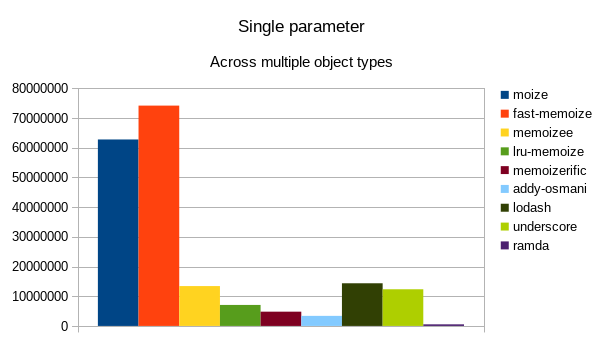
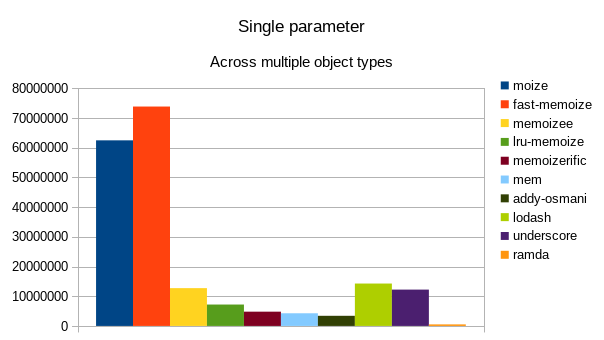
Add mem to benchmarks

Changed region(s): [[0.2086, 0.2941, 0.7748, 0.9706], [0.8046, 0.2353, 0.9834, 0.7647], [0.149, 0.4118, 0.1788, 0.9412]]

diff --git a/benchmark/index.js b/benchmark/index.js
@@ -8,15 +8,16 @@ const Benchmark = require('benchmark');
 const Table = require('cli-table2');
 const ora = require('ora');
 
-const underscore = require('underscore').memoize;
-const lodash = _.memoize;
-const ramda = require('ramda').memoize;
-const memoizee = require('memoizee');
-const fastMemoize = require('fast-memoize');
 const addyOsmani = require('./addy-osmani');
-const memoizerific = require('memoizerific');
+const fastMemoize = require('fast-memoize');
+const lodash = _.memoize;
 const lruMemoize = require('lru-memoize').default;
+const mem = require('mem');
+const memoizee = require('memoizee');
+const memoizerific = require('memoizerific');
 const moize = require('../lib').default;
+const ramda = require('ramda').memoize;
+const underscore = require('underscore').memoize;
 
 const deepEquals = require('lodash').isEqual;
 
@@ -135,15 +136,16 @@ const runSinglePrimitiveSuite = () => {
   const fibonacciSuite = new Benchmark.Suite('Single parameter (primitive)');
   const fibonacciNumber = 35;
 
-  const mUnderscore = underscore(fibonacciSinglePrimitive);
-  const mLodash = lodash(fibonacciSinglePrimitive);
-  const mRamda = ramda(fibonacciSinglePrimitive);
-  const mMemoizee = memoizee(fibonacciSinglePrimitive);
-  const mFastMemoize = fastMemoize(fibonacciSinglePrimitive);
   const mAddyOsmani = addyOsmani(fibonacciSinglePrimitive);
-  const mMemoizerific = memoizerific(Infinity)(fibonacciSinglePrimitive);
+  const mFastMemoize = fastMemoize(fibonacciSinglePrimitive);
+  const mLodash = lodash(fibonacciSinglePrimitive);
   const mLruMemoize = lruMemoize(Infinity)(fibonacciSinglePrimitive);
+  const mMem = mem(fibonacciSinglePrimitive);
+  const mMemoizee = memoizee(fibonacciSinglePrimitive);
+  const mMemoizerific = memoizerific(Infinity)(fibonacciSinglePrimitive);
   const mMoize = moize(fibonacciSinglePrimitive);
+  const mRamda = ramda(fibonacciSinglePrimitive);
+  const mUnderscore = underscore(fibonacciSinglePrimitive);
 
   return new Promise((resolve) => {
     fibonacciSuite
@@ -158,6 +160,9 @@ const runSinglePrimitiveSuite = () => {
       })
       .add('lru-memoize', () => {
         mLruMemoize(fibonacciNumber);
+      })
+      .add('mem', () => {
+        mMem(fibonacciNumber);
       })
       .add('memoizee', () => {
         mMemoizee(fibonacciNumber);
@@ -197,15 +202,16 @@ const runSingleArraySuite = () => {
   const fibonacciSuite = new Benchmark.Suite('Single parameter (Array)');
   const fibonacciNumber = [35];
 
-  const mUnderscore = underscore(fibonacciSingleArray);
-  const mLodash = lodash(fibonacciSingleArray);
-  const mRamda = ramda(fibonacciSingleArray);
-  const mMemoizee = memoizee(fibonacciSingleArray);
-  const mFastMemoize = fastMemoize(fibonacciSingleArray);
   const mAddyOsmani = addyOsmani(fibonacciSingleArray);
-  const mMemoizerific = memoizerific(Infinity)(fibonacciSingleArray);
+  const mFastMemoize = fastMemoize(fibonacciSingleArray);
+  const mLodash = lodash(fibonacciSingleArray);
   const mLruMemoize = lruMemoize(Infinity)(fibonacciSingleArray);
+  const mMem = mem(fibonacciSingleArray);
+  const mMemoizee = memoizee(fibonacciSingleArray);
+  const mMemoizerific = memoizerific(Infinity)(fibonacciSingleArray);
   const mMoize = moize(fibonacciSingleArray);
+  const mRamda = ramda(fibonacciSingleArray);
+  const mUnderscore = underscore(fibonacciSingleArray);
 
   return new Promise((resolve) => {
     fibonacciSuite
@@ -220,6 +226,9 @@ const runSingleArraySuite = () => {
       })
       .add('lru-memoize', () => {
         mLruMemoize(fibonacciNumber);
+      })
+      .add('mem', () => {
+        mMem(fibonacciNumber);
       })
       .add('memoizee', () => {
         mMemoizee(fibonacciNumber);
@@ -261,15 +270,16 @@ const runSingleObjectSuite = () => {
     number: 35
   };
 
-  const mUnderscore = underscore(fibonacciSingleObject);
-  const mLodash = lodash(fibonacciSingleObject);
-  const mRamda = ramda(fibonacciSingleObject);
-  const mMemoizee = memoizee(fibonacciSingleObject);
-  const mFastMemoize = fastMemoize(fibonacciSingleObject);
   const mAddyOsmani = addyOsmani(fibonacciSingleObject);
-  const mMemoizerific = memoizerific(Infinity)(fibonacciSingleObject);
+  const mFastMemoize = fastMemoize(fibonacciSingleObject);
+  const mLodash = lodash(fibonacciSingleObject);
   const mLruMemoize = lruMemoize(Infinity)(fibonacciSingleObject);
+  const mMem = mem(fibonacciSingleObject);
+  const mMemoizee = memoizee(fibonacciSingleObject);
+  const mMemoizerific = memoizerific(Infinity)(fibonacciSingleObject);
   const mMoize = moize(fibonacciSingleObject);
+  const mRamda = ramda(fibonacciSingleObject);
+  const mUnderscore = underscore(fibonacciSingleObject);
 
   return new Promise((resolve) => {
     fibonacciSuite
@@ -284,6 +294,9 @@ const runSingleObjectSuite = () => {
       })
       .add('lru-memoize', () => {
         mLruMemoize(fibonacciNumber);
+      })
+      .add('mem', () => {
+        mMem(fibonacciNumber);
       })
       .add('memoizee', () => {
         mMemoizee(fibonacciNumber);
@@ -324,11 +337,12 @@ const runMultiplePrimitiveSuite = () => {
   const fibonacciNumber = 35;
   const isComplete = false;
 
-  const mMemoizee = memoizee(fibonacciMultiplePrimitive);
-  const mFastMemoize = fastMemoize(fibonacciMultiplePrimitive);
   const mAddyOsmani = addyOsmani(fibonacciMultiplePrimitive);
-  const mMemoizerific = memoizerific(Infinity)(fibonacciMultiplePrimitive);
+  const mFastMemoize = fastMemoize(fibonacciMultiplePrimitive);
   const mLruMemoize = lruMemoize(Infinity)(fibonacciMultiplePrimitive);
+  const mMem = mem(fibonacciMultiplePrimitive);
+  const mMemoizee = memoizee(fibonacciMultiplePrimitive);
+  const mMemoizerific = memoizerific(Infinity)(fibonacciMultiplePrimitive);
   const mMoize = moize(fibonacciMultiplePrimitive);
 
   return new Promise((resolve) => {
@@ -341,6 +355,9 @@ const runMultiplePrimitiveSuite = () => {
       })
       .add('fast-memoize', () => {
         mFastMemoize(fibonacciNumber, isComplete);
+      })
+      .add('mem', () => {
+        mMem(fibonacciNumber, isComplete);
       })
       .add('memoizee', () => {
         mMemoizee(fibonacciNumber, isComplete);
@@ -375,11 +392,12 @@ const runMultipleArraySuite = () => {
   const fibonacciNumber = [35];
   const isComplete = false;
 
-  const mMemoizee = memoizee(fibonacciMultipleArray);
-  const mFastMemoize = fastMemoize(fibonacciMultipleArray);
   const mAddyOsmani = addyOsmani(fibonacciMultipleArray);
-  const mMemoizerific = memoizerific(Infinity)(fibonacciMultipleArray);
+  const mFastMemoize = fastMemoize(fibonacciMultipleArray);
   const mLruMemoize = lruMemoize(Infinity)(fibonacciMultipleArray);
+  const mMem = mem(fibonacciMultipleArray);
+  const mMemoizee = memoizee(fibonacciMultipleArray);
+  const mMemoizerific = memoizerific(Infinity)(fibonacciMultipleArray);
   const mMoize = moize(fibonacciMultipleArray);
 
   return new Promise((resolve) => {
@@ -392,6 +410,9 @@ const runMultipleArraySuite = () => {
       })
       .add('fast-memoize', () => {
         mFastMemoize(fibonacciNumber, isComplete);
+      })
+      .add('mem', () => {
+        mMem(fibonacciNumber, isComplete);
       })
       .add('memoizee', () => {
         mMemoizee(fibonacciNumber, isComplete);
@@ -430,11 +451,12 @@ const runMultipleObjectSuite = () => {
     isComplete: false
   };
 
-  const mMemoizee = memoizee(fibonacciMultipleObject);
-  const mFastMemoize = fastMemoize(fibonacciMultipleObject);
   const mAddyOsmani = addyOsmani(fibonacciMultipleObject);
-  const mMemoizerific = memoizerific(Infinity)(fibonacciMultipleObject);
+  const mFastMemoize = fastMemoize(fibonacciMultipleObject);
   const mLruMemoize = lruMemoize(Infinity)(fibonacciMultipleObject);
+  const mMem = mem(fibonacciMultipleObject);
+  const mMemoizee = memoizee(fibonacciMultipleObject);
+  const mMemoizerific = memoizerific(Infinity)(fibonacciMultipleObject);
   const mMoize = moize(fibonacciMultipleObject);
 
   return new Promise((resolve) => {
@@ -447,6 +469,9 @@ const runMultipleObjectSuite = () => {
       })
       .add('fast-memoize', () => {
         mFastMemoize(fibonacciNumber, isComplete);
+      })
+      .add('mem', () => {
+        mMem(fibonacciNumber, isComplete);
       })
       .add('memoizee', () => {
         mMemoizee(fibonacciNumber, isComplete);
@@ -697,15 +722,26 @@ const writeCsv = () => {
   }
 };
 
+const pauseBetweenSuites = () => {
+  return new Promise((resolve) => {
+    setTimeout(resolve, 2000);
+  });
+};
+
 if (process.env.ALTERNATIVE) {
   runAlternativeOptionsSuite();
 } else {
   Promise.resolve()
     .then(runSinglePrimitiveSuite)
+    .then(pauseBetweenSuites)
     .then(runSingleArraySuite)
+    .then(pauseBetweenSuites)
     .then(runSingleObjectSuite)
+    .then(pauseBetweenSuites)
     .then(runMultiplePrimitiveSuite)
+    .then(pauseBetweenSuites)
     .then(runMultipleArraySuite)
+    .then(pauseBetweenSuites)
     .then(runMultipleObjectSuite)
     .then(writeCsv);
 }

diff --git a/README.md b/README.md
@@ -984,15 +984,16 @@ All values provided are the number of operations per second (ops/sec) calculated
 
 | Name         | Overall (average) | Single (average) | Multiple (average) | Single (primitive) | Single (Array) | Single (Object) | Multiple (primitive) | Multiple (Array) | Multiple (Object) |
 | ------------ | ----------------- | ---------------- | ------------------ | ------------------ | -------------- | --------------- | -------------------- | ---------------- | ----------------- |
-| moize        | **54,442,644**    | **62,780,580**   | **46,104,708**     | **72,109,787**     | **58,453,155** | **57,778,799**  | **46,581,187**       | **46,183,259**   | **45,549,679**    |
-| fast-memoize | 37,609,308        | 74,176,834       | 1,041,783          | 219,337,919        | 1,708,482      | 1,484,101       | 1,206,787            | 1,098,407        | 820,155           |
-| memoizee     | 10,756,223        | 13,426,260       | 8,086,187          | 16,472,061         | 11,706,042     | 12,100,677      | 9,883,162            | 7,427,154        | 6,948,247         |
-| lru-memoize  | 6,620,127         | 7,072,612        | 6,167,642          | 7,943,207          | 6,574,779      | 6,699,851       | 6,158,971            | 6,185,842        | 6,158,115         |
-| memoizerific | 4,402,707         | 4,785,574        | 4,019,841          | 5,607,215          | 4,385,521      | 4,363,988       | 4,663,856            | 3,882,732        | 3,512,935         |
-| addy-osmani  | 2,694,874         | 3,374,865        | 2,014,883          | 6,459,123          | 1,963,741      | 1,701,733       | 3,348,464            | 1,748,475        | 947,712           |
-| lodash       | N/A               | 14,373,213       | N/A                | 27,021,177         | 8,052,851      | 8,045,612       | N/A                  | N/A              | N/A               |
-| underscore   | N/A               | 12,335,218       | N/A                | 23,624,901         | 5,349,427      | 8,031,326       | N/A                  | N/A              | N/A               |
-| ramda        | N/A               | 524,451          | N/A                | 1,090,937          | 278,501        | 203,915         | N/A                  | N/A              | N/A               |
+| **moize**    | **54,049,694**    | **62,485,200**   | **45,614,188**     | **71,194,403**     | **58,210,912** | **58,050,286**  | **46,234,437**       | **45,898,810**   | **44,709,318**    |
+| fast-memoize | 37,448,048        | 73,862,382       | 1,033,714          | 218,572,933        | 1,575,627      | 1,438,587       | 1,194,182            | 1,092,453        | 814,507           |
+| memoizee     | 10,522,358        | 12,733,020       | 8,311,696          | 15,243,681         | 11,310,768     | 11,644,612      | 9,832,601            | 7,479,853        | 7,622,636         |
+| lru-memoize  | 6,744,145         | 7,198,151        | 6,290,139          | 8,001,721          | 6,697,666      | 6,895,068       | 6,362,105            | 6,194,207        | 6,314,105         |
+| memoizerific | 4,391,063         | 4,785,000        | 3,997,126          | 5,625,963          | 4,361,767      | 4,367,271       | 4,576,996            | 3,888,147        | 3,526,237         |
+| mem          | 2,791,309         | 4,263,653        | 1,318,965          | 9,595,171          | 1,688,105      | 1,507,683       | 1,640,567            | 1,346,912        | 969,418           |
+| addy-osmani  | 2,711,133         | 3,405,007        | 2,017,258          | 6,358,682          | 2,033,139      | 1,823,201       | 3,248,815            | 1,852,464        | 950,497           |
+| lodash       | N/A               | 14,269,696       | N/A                | 26,462,567         | 8,164,835      | 8,181,688       | N/A                  | N/A              | N/A               |
+| underscore   | N/A               | 12,235,223       | N/A                | 23,300,304         | 5,358,188      | 8,047,177       | N/A                  | N/A              | N/A               |
+| ramda        | N/A               | 521,228          | N/A                | 1,078,127          | 284,487        | 201,072         | N/A                  | N/A              | N/A               |
 
 ![Overall average image](img/overall-average.png)
 
